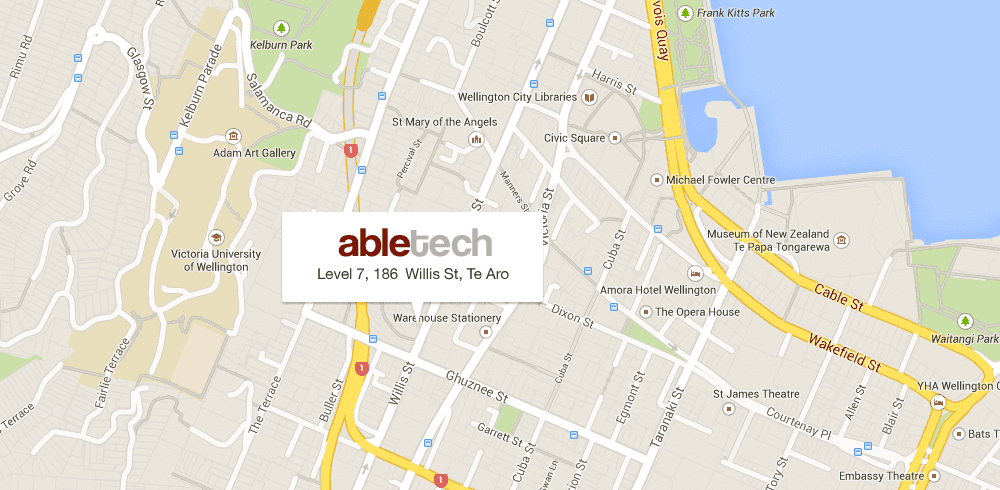
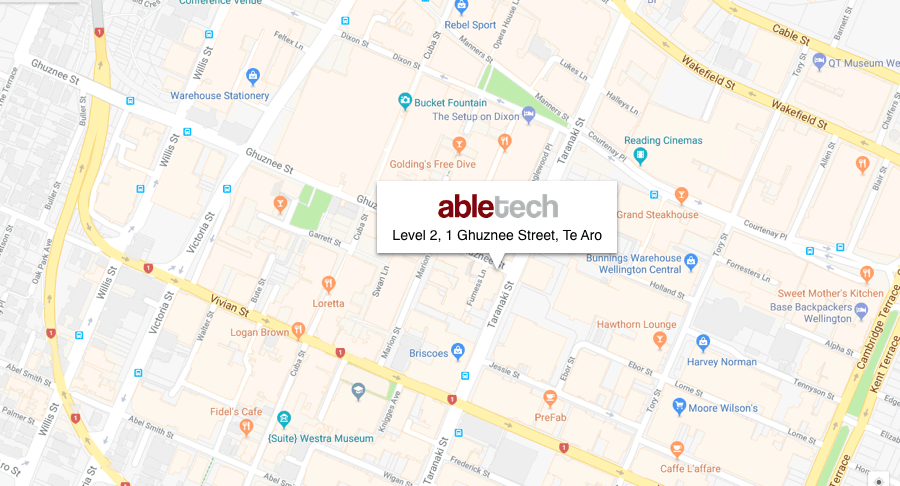
updated address text and map image

diff --git a/blog/optica_trimmed.html b/blog/optica_trimmed.html
@@ -256,7 +256,7 @@
           <dd class="telephone"><a href="tel:+6449103100">+64 4 910 3100</a></dd>
           <dt>Visit us:</dt>
           <dd class="address">
-            Level 7, 186 Willis Street<br>
+            Level 2, 1 Ghuznee Street<br>
             Te Aro, Wellington 6011<br>
             New Zealand
           </dd>
